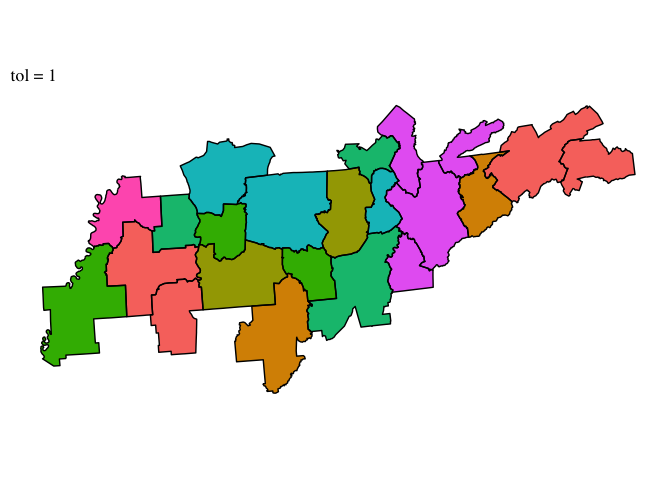
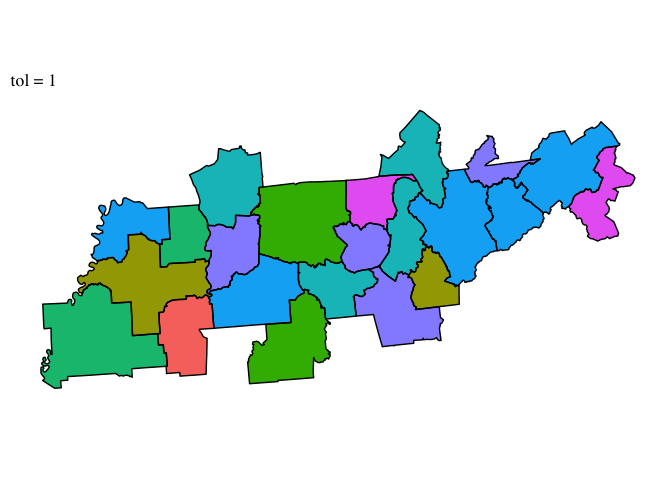
updating commuting zone data to 2010 version

Changed region(s): [[0.0625, 0.2188, 0.9688, 0.8125], [0.0, 0.1562, 0.0625, 0.1875]]

diff --git a/R/construct-commuting-zone-data.md b/R/construct-commuting-zone-data.md
@@ -1,22 +1,34 @@
 construct-commuting-zone-data.R
 ================
 gravesj
-Thu Jan 24 09:30:09 2019
+Mon Jan 28 09:30:58 2019
 
 ``` r
 # The basis of the COUNTY to COMMUTING ZONE conversion is the crosswalk file downloaded from
 # https://www.ers.usda.gov/data-products/commuting-zones-and-labor-market-areas/ on 2019-01-24.
-
-
 
 suppressWarnings(suppressMessages(source(here::here("/R/manifest.R"))))
 source(here("R/move-ak-hi.R"))
 source(here("R/get-geographic-info.R"))
 source(here("R/map-theme.R"))
 
-county_to_cz <- readxl::read_xls(here("public-data/shape-files/commuting-zones/cz00_eqv_v1.xls")) %>% 
-  janitor::clean_names()  %>% 
-  rename(fips_code = fips) 
+
+# Source: https://sites.psu.edu/psucz/data/
+county_to_cz <- data.table::fread(here("public-data/shape-files/commuting-zones/counties10-zqvz0r.csv")) %>% 
+  janitor::clean_names() %>% 
+  rename(fips_code = fips) %>% 
+  group_by(out10) %>% 
+  mutate(commuting_zone_population_2010 = sum(pop10, na.rm=TRUE)) %>% 
+  mutate(fips_code = str_pad(paste0(fips_code),width = 5, pad="0")) %>% 
+  select(fips_code,
+         commuting_zone_id_2010 = out10,
+         commuting_zone_population_2010 )
+
+         
+
+# county_to_cz <- readxl::read_xls(here("public-data/shape-files/commuting-zones/cz00_eqv_v1.xls")) %>% 
+#   janitor::clean_names()  %>% 
+#   rename(fips_code = fips) 
 
 county_map_shape <- readOGR(dsn=here("public-data/shape-files/county-2017/cb_2017_us_county_5m/cb_2017_us_county_5m.shp"),
                       layer = "cb_2017_us_county_5m",verbose = FALSE) 
@@ -27,7 +39,7 @@ suppressWarnings({
   county_map <- gBuffer(county_map, byid=TRUE, width=0)
 })
 
-# Assign the ZIP code as the polygon identifier. 
+# Assign the FIPS code as the polygon identifier. 
 county_map_a <- 
   spChFIDs(county_map,paste0(county_map@data$GEOID))
 
@@ -51,7 +63,7 @@ county_in_map <- row.names(county_map_final)
 
 # HRR Data Frame (contains information on HRR ID, City, State, etc.)
 df_cz <- county_to_cz %>% 
-  select(GEOID = fips_code, commuting_zone_id_2000,commuting_zone_population_2000) %>% 
+  select(GEOID = fips_code, commuting_zone_id_2010,commuting_zone_population_2010) %>% 
   data.frame() 
 # Must have ZCTAs as row names to merge onto map objects
 rownames(df_cz) <- df_cz$GEOID
@@ -74,7 +86,7 @@ df_cz2 <- df_cz[-which(row.names(df_cz) %in% setdiff(row.names(df_cz),row.names(
 # Spatial merge the ZCTA Map with the HRR Data
 # Note: this takes a few minutes. 
 county_map_with_cz <- spCbind(county_map_final2, df_cz2)
-cz_map_merged <- unionSpatialPolygons(county_map_with_cz,county_map_with_cz$commuting_zone_id_2000) 
+cz_map_merged <- unionSpatialPolygons(county_map_with_cz,county_map_with_cz$commuting_zone_id_2010) 
 
 # Construct a data frame object that will get appended onto the map (needed to get contiguous HRR data, 
 # and to merge in other HRR attributes later). 
@@ -82,39 +94,62 @@ cz_map_merged_df <-
   slot(cz_map_merged, "polygons") %>% 
   map_chr(~(slot(.x,"ID"))) %>% 
   as.data.frame() %>% 
-  set_names("commuting_zone_id_2000") %>% 
+  set_names("commuting_zone_id_2010") %>% 
   tbl_df() %>% 
-  mutate(commuting_zone_id_2000= paste0(commuting_zone_id_2000)) %>% 
+  mutate(commuting_zone_id_2010= paste0(commuting_zone_id_2010)) %>% 
   data.frame() %>% 
-  left_join(df_cz %>% select(commuting_zone_id_2000,everything()) %>% unique() %>% mutate(commuting_zone_id_2000 = paste0(commuting_zone_id_2000)),"commuting_zone_id_2000")
-rownames(cz_map_merged_df) <- cz_map_merged_df$commuting_zone_id_2000
+  left_join(df_cz %>% select(commuting_zone_id_2010,everything()) %>% unique() %>% mutate(commuting_zone_id_2010 = paste0(commuting_zone_id_2010)),"commuting_zone_id_2010")
+rownames(cz_map_merged_df) <- cz_map_merged_df$commuting_zone_id_2010
 
 cz_map <- SpatialPolygonsDataFrame(cz_map_merged, data = cz_map_merged_df)
 cz_map <- move_ak_hi(cz_map,type="cz")
 cz_map <- gBuffer(cz_map, byid=TRUE, width=0)
 
+# Save as shape file
+
 df_cz_info <- 
   cz_map %>% 
-  get_geograhic_info(commuting_zone_id_2000, get_contiguous = TRUE) 
+  get_geograhic_info(commuting_zone_id_2010, get_contiguous = TRUE) 
 
+# Save as a shapefile
+tmp <- df_cz_info %>% data.frame()
+rownames(tmp) <- tmp$polygon_id
+tmp <- tmp %>% select(-polygon_id) 
+SpatialPolygonsDataFrame(cz_map, data = tmp) %>% 
+  sf::st_as_sf() %>% 
+  sf::write_sf(here("output/tidy-mapping-files/commuting-zone/01_commuting-zone-shape-file.shp"))
+```
+
+    ## Warning in abbreviate_shapefile_names(obj): Field names abbreviated for
+    ## ESRI Shapefile driver
+
+    ## Warning in CPL_write_ogr(obj, dsn, layer, driver,
+    ## as.character(dataset_options), : GDAL Message 6: Normalized/laundered field
+    ## name: 'cmmtng_zn_d_2010' to 'cmmtng_zn_'
+
+    ## Warning in CPL_write_ogr(obj, dsn, layer, driver,
+    ## as.character(dataset_options), : GDAL Message 6: Normalized/laundered field
+    ## name: 'cmmtng_zn_p_2010' to 'cmmtng_z_1'
+
+``` r
 cz_map_simple <- gSimplify(cz_map, tol = 1)
 
-df_cz_map = fortify(cz_map_simple,region = "commuting_zone_id_2000") %>%
-  rename(commuting_zone_id_2000 = id) %>%
-  dplyr::select(commuting_zone_id_2000,everything()) %>% 
+df_cz_map = fortify(cz_map_simple,region = "commuting_zone_id_2010") %>%
+  rename(commuting_zone_id_2010 = id) %>%
+  dplyr::select(commuting_zone_id_2010,everything()) %>% 
   tbl_df()
 dim(df_cz_map)
 ```
 
-    ## [1] 121197      7
+    ## [1] 118771      7
 
 ``` r
 tn_czs <- 
-  county_to_cz %>% mutate(commuting_zone_id_2000 = paste0(commuting_zone_id_2000)) %>% filter(str_sub(fips_code,1,2) %in% c("47")) %>% pull(commuting_zone_id_2000)
+  county_to_cz %>% ungroup %>% mutate(commuting_zone_id_2010 = paste0(commuting_zone_id_2010)) %>% filter(str_sub(fips_code,1,2) %in% c("47")) %>% pull(commuting_zone_id_2010)
 
 df_cz_map %>%
-  left_join(df_cz_info, "commuting_zone_id_2000") %>% 
-  filter(commuting_zone_id_2000 %in% tn_czs) %>% 
+  left_join(df_cz_info, "commuting_zone_id_2010") %>% 
+  filter(commuting_zone_id_2010 %in% tn_czs) %>% 
   tbl_df() %>%
   mutate(test = factor(sample(1:10,nrow(.),replace=TRUE))) %>%
   ggplot() +
@@ -134,5 +169,5 @@ df_cz_map %>%
 # Write the final output.
 if (!dir.exists(here("output/tidy-mapping-files/commuting-zone"))) dir.create(here("output/tidy-mapping-files/commuting-zone"))
 write_rds(df_cz_info,here("output/tidy-mapping-files/commuting-zone/","df_cz_info.rds"))
-write_rds(df_cz_map %>% left_join(df_cz_info, "commuting_zone_id_2000"),here("output/tidy-mapping-files/commuting-zone/","df_cz.rds"))
+write_rds(df_cz_map %>% left_join(df_cz_info, "commuting_zone_id_2010"),here("output/tidy-mapping-files/commuting-zone/","df_cz.rds"))
 ```
